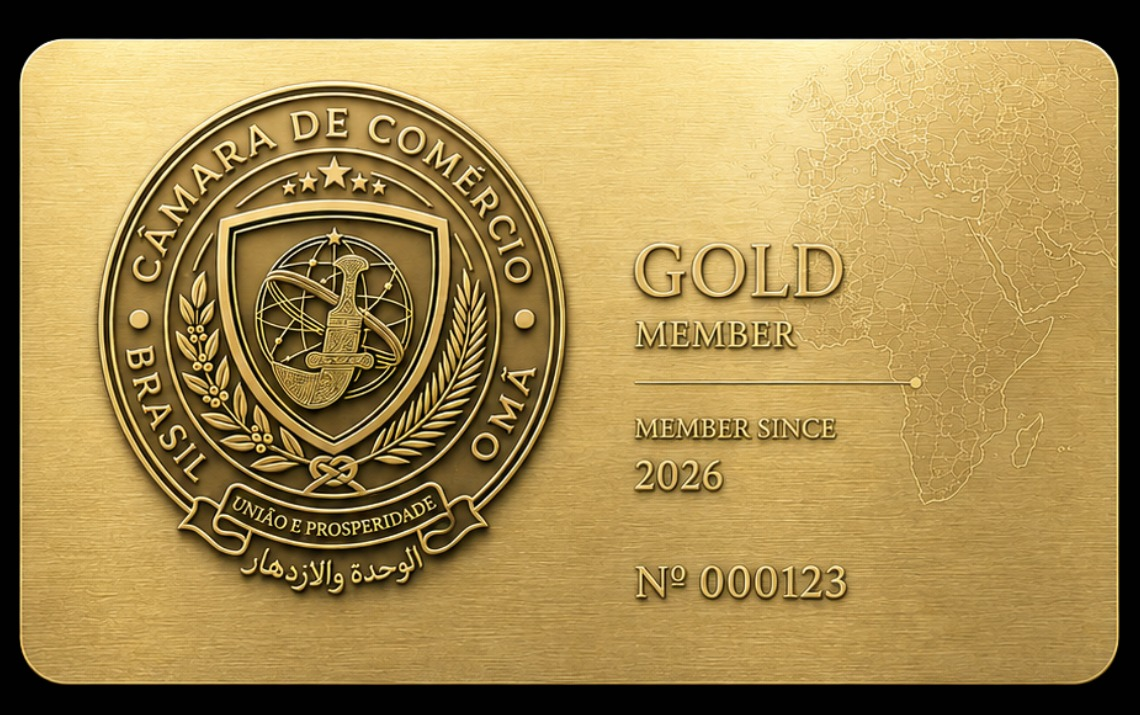
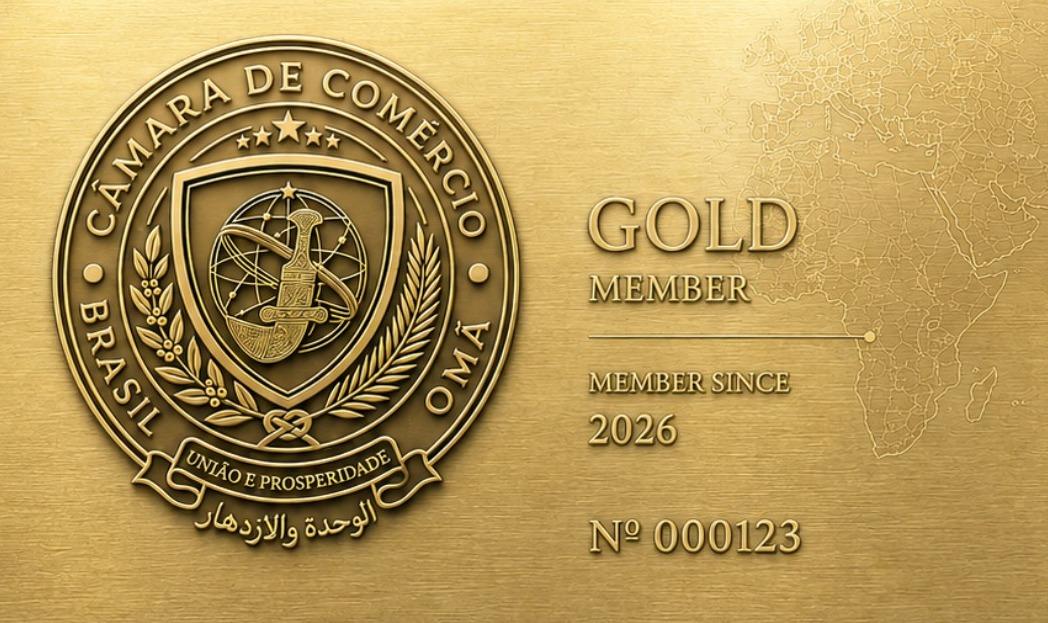
Corrige borda preta/branca e texto borrado no cartão digital
Duas causas raiz distintas, ambas na arte do cartão (Gold/Black/Platinum):

1. Borda preta (frente) / branca (verso): as 6 imagens (frente+verso
   dos 3 níveis) tinham uma margem sólida preta ou branca de ~15-40px
   já embutida nos pixels, ao redor do cartão em si. Como o CSS usa
   aspect-ratio idêntico ao da imagem (pra caber sem distorcer), o
   object-fit:cover não tinha nada pra recortar e a borda ficava
   visível. Recortei essa margem (46px de cada lado, cobrindo o pior
   caso das 6 imagens) e recalculei o aspect-ratio do cartão pra bater
   exato com o novo tamanho.

2. '2026'/número borrado (frente): ao recortar a borda, todas as
   posições em % dos overlays mudaram (denominador diferente). Um
   primeiro recálculo por fórmula ficou impreciso o suficiente pra
   deixar o texto fantasma ('MEMBER SINCE' e o número de exemplo)
   escapando por trás do nosso texto real. Remediádo medindo a posição
   exata de cada linha de texto (grade de pixel sobre a imagem, nos
   3 níveis individualmente) — e descobri que o texto de exemplo NÃO
   fica no mesmo pixel nos 3 níveis (até ~20px de diferença), margem
   pequena demais pra uma posição única servir pras 3. Corrigido com
   posições por nível (.tier-gold/.tier-black/.tier-platinum), cada
   uma calibrada na própria arte. Testado nos 3 níveis, frente e
   verso, com zoom + contraste realçado pra confirmar zero fantasma.

diff --git a/src/app/globals.css b/src/app/globals.css
@@ -1412,7 +1412,7 @@ a.partner-card:hover { border-color: var(--gold); transform: translateY(-3px); }
    imagem de fundo; ano/número (frente) e QR Code (verso) são sobrepostos por
    cima, nas posições exatas onde a arte já reserva esse espaço. */
 .loyalty-card {
-  display: block; width: 100%; max-width: 420px; aspect-ratio: 1140 / 715;
+  display: block; width: 100%; max-width: 420px; aspect-ratio: 1048 / 623;
   border-radius: 14px; position: relative; overflow: hidden; container-type: inline-size;
   box-shadow: 0 10px 30px rgba(0,0,0,0.4); border: 0; padding: 0; background: none; cursor: pointer;
 }
@@ -1429,21 +1429,37 @@ a.partner-card:hover { border-color: var(--gold); transform: translateY(-3px); }
   background-image: repeating-linear-gradient(100deg, rgba(255, 255, 255, 0.05) 0px, rgba(255, 255, 255, 0.05) 1px, transparent 1px, transparent 3px, rgba(0, 0, 0, 0.05) 3px, rgba(0, 0, 0, 0.05) 4px, transparent 4px, transparent 6px);
   background-blend-mode: overlay;
 }
-.loyalty-card-patch-year { left: 51%; top: 60.5%; width: 16%; height: 10%; }
-.loyalty-card-patch-number { left: 51%; top: 76%; width: 31%; height: 11.5%; }
-.loyalty-card-value-year { left: 53%; top: 61%; width: 11%; height: 8%; }
-.loyalty-card-value-number { left: 53%; top: 78%; width: 23%; height: 8%; }
+/* Recalibrado com grade de pixel precisa sobre a arte já cortada (sem a borda).
+   "MEMBER SINCE" é texto fixo do design (fica visível sempre) — o patch cobre só
+   a LINHA DE BAIXO (o ano de exemplo), começando depois do espaço entre as duas
+   linhas pra nunca tampar "MEMBER SINCE". As 3 artes usam o mesmo template mas o
+   texto de exemplo NÃO fica no mesmo pixel exato em cada uma (diferença de até
+   ~20px) — por isso cada nível tem sua própria posição abaixo, calibrada
+   individualmente (uma posição única "seguindo pro meio" não sobra margem
+   suficiente pra nunca vazar "MEMBER SINCE" nem deixar de cobrir o "2026"). */
+.tier-gold .loyalty-card-patch-year,
+.tier-gold .loyalty-card-value-year { left: 54.87%; top: 63.4%; width: 10.97%; height: 8.99%; }
+.tier-gold .loyalty-card-patch-number,
+.tier-gold .loyalty-card-value-number { left: 54.87%; top: 82.18%; width: 22.23%; height: 6.74%; }
+.tier-black .loyalty-card-patch-year,
+.tier-black .loyalty-card-value-year { left: 56.77%; top: 65.33%; width: 9.64%; height: 8.35%; }
+.tier-black .loyalty-card-patch-number,
+.tier-black .loyalty-card-value-number { left: 56.77%; top: 82.66%; width: 20.8%; height: 7.06%; }
+.tier-platinum .loyalty-card-patch-year,
+.tier-platinum .loyalty-card-value-year { left: 53.63%; top: 66.29%; width: 10.11%; height: 8.03%; }
+.tier-platinum .loyalty-card-patch-number,
+.tier-platinum .loyalty-card-value-number { left: 53.63%; top: 84.27%; width: 21.09%; height: 7.06%; }
 .loyalty-card-value {
   position: absolute; display: flex; align-items: center; justify-content: flex-start;
   font-family: var(--font-display); font-weight: 700; white-space: nowrap; line-height: 1;
 }
 .loyalty-card-value-year { font-size: 2cqw; font-weight: 600; }
 .loyalty-card-value-number { font-size: 2cqw; font-weight: 600; }
-.loyalty-card-qr-patch { position: absolute; left: 6.3%; top: 42%; width: 19%; height: 31%; border-radius: 4px; background: #fff; }
+.loyalty-card-qr-patch { position: absolute; left: 2.46%; top: 40.82%; width: 20.67%; height: 35.58%; border-radius: 4px; background: #fff; }
 /* Caixa levemente menor que o patch branco, com folga fixa proporcional — não usar
    padding em %, que é sempre relativo à largura do cartão (não da própria caixa,
    pequena) e pode reduzir a área útil da imagem a quase zero. */
-.loyalty-card-qr { position: absolute; left: 7.53%; top: 43.96%; width: 16.54%; height: 27.09%; object-fit: contain; }
+.loyalty-card-qr { position: absolute; left: 3.8%; top: 43.07%; width: 17.99%; height: 31.11%; object-fit: contain; }
 .loyalty-card-flip-hint { font-size: 0.76rem; color: var(--fg-dim); text-align: center; margin: 8px 0 0; max-width: 420px; }
 
 .loyalty-tier-badge {

diff --git a/src/components/MemberDigitalCard.tsx b/src/components/MemberDigitalCard.tsx
@@ -54,7 +54,7 @@ export function MemberDigitalCard({
     <div>
       <button
         type="button"
-        className="loyalty-card"
+        className={`loyalty-card tier-${tier.toLowerCase()}`}
         onClick={() => setShowBack((v) => !v)}
         aria-label={showBack ? "Ver frente do cartão" : "Ver verso do cartão"}
       >
